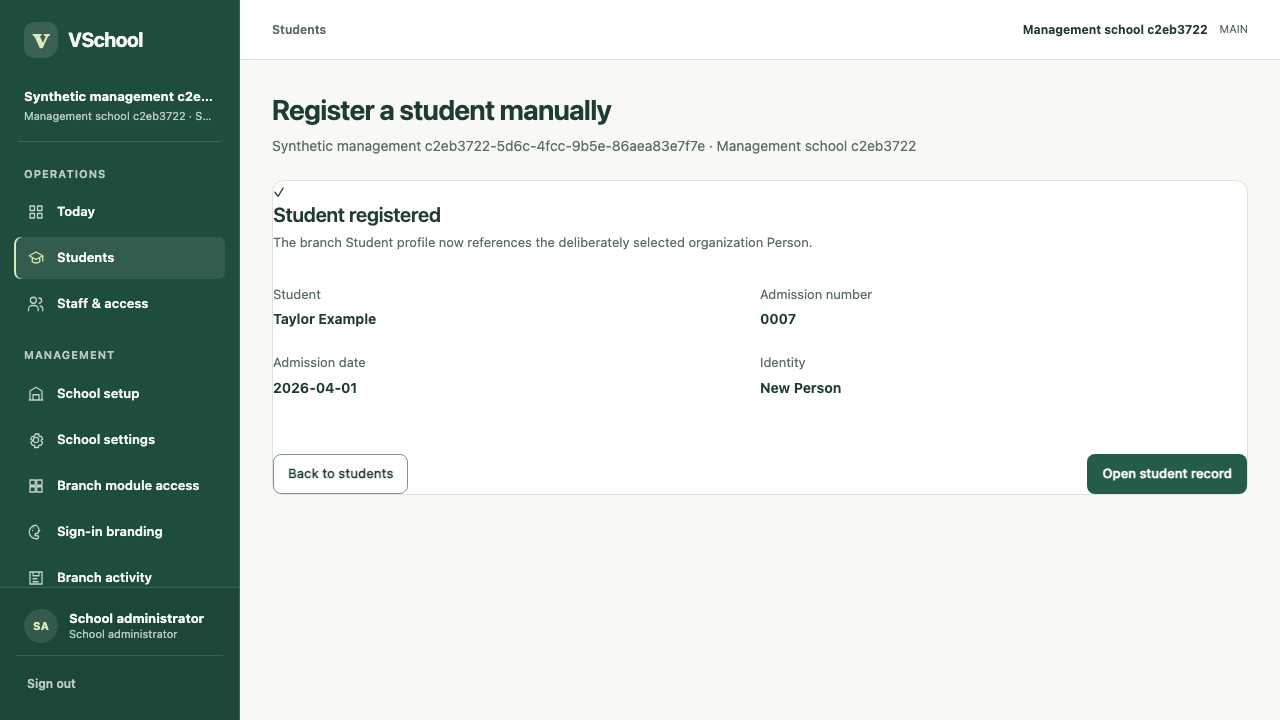
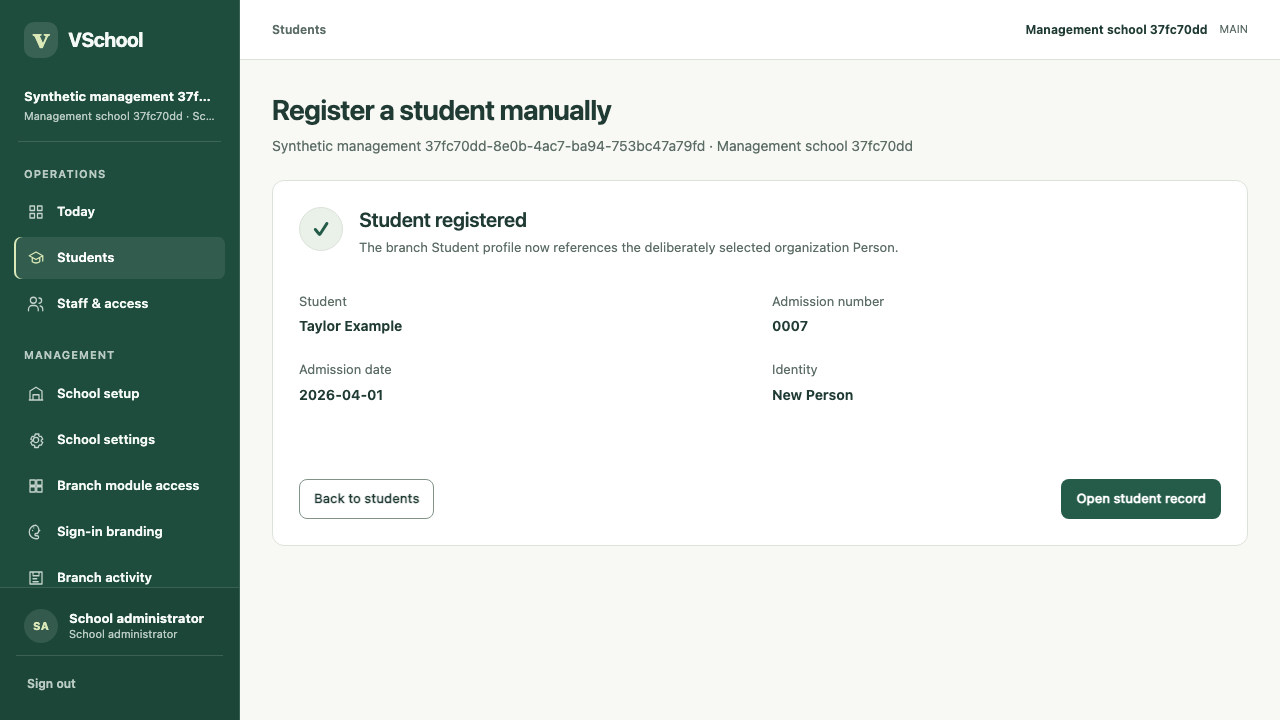
Complete administrator student enrollment composition

diff --git a/components/student-enrollment-form.tsx b/components/student-enrollment-form.tsx
@@ -2,9 +2,12 @@
 
 import {useEffect,useRef,useState} from "react";
 import {useRouter} from "next/navigation";
-import type {EnrollmentOptions} from "@/shared/contracts/students";
+import type {EnrollmentOptions,EnrollmentResult} from "@/shared/contracts/students";
 import {Checkbox,SelectField,TextField} from "@/components/ui/forms";
-import {Alert,Button,Card,SectionHeader} from "@/components/ui/primitives";
+import {Alert,Button,ButtonLink,Card,SectionHeader} from "@/components/ui/primitives";
+
+type EnrollmentAttempt=Readonly<{studentId:string;yearId:string;sectionId:string;startsOn:string;lastDay:string;rollNumber:string;key:string}>;
+type ApiFailure=Error&{code?:string;status?:number;retryable?:boolean};
 
 function priorDay(value:string){
   const [year,month,day]=value.split("-").map(Number),date=new Date(Date.UTC(year,month-1,day-1));
@@ -17,7 +20,7 @@ function defaultStart(year:EnrollmentOptions["years"][number]|undefined,today:st
 
 export function StudentEnrollmentForm({studentId,studentName,admissionNumber,cancelHref,options}:{studentId:string;studentName:string;admissionNumber:string;cancelHref:string;options:EnrollmentOptions}){
   const router=useRouter(),years=options.years.filter(item=>!options.enrolledYearIds.includes(item.yearId));
-  const [step,setStep]=useState<1|2|3|4>(1),[yearId,setYearId]=useState(years[0]?.yearId??""),[sectionId,setSectionId]=useState(""),[startsOn,setStartsOn]=useState(()=>defaultStart(years[0],options.today)),[lastDay,setLastDay]=useState(()=>years[0]?priorDay(years[0].endsOn):""),[rollNumber,setRollNumber]=useState(""),[reviewed,setReviewed]=useState(false),[busy,setBusy]=useState(false),[error,setError]=useState(""),[success,setSuccess]=useState(false);
+  const [step,setStep]=useState<1|2|3|4>(1),[yearId,setYearId]=useState(years[0]?.yearId??""),[sectionId,setSectionId]=useState(""),[startsOn,setStartsOn]=useState(()=>defaultStart(years[0],options.today)),[lastDay,setLastDay]=useState(()=>years[0]?priorDay(years[0].endsOn):""),[rollNumber,setRollNumber]=useState(""),[reviewed,setReviewed]=useState(false),[busy,setBusy]=useState(false),[error,setError]=useState(""),[errorCode,setErrorCode]=useState(""),[attempt,setAttempt]=useState<EnrollmentAttempt|null>(null),[saved,setSaved]=useState<EnrollmentResult|null>(null);
   const stepPanel=useRef<HTMLDivElement>(null),didMount=useRef(false),year=years.find(item=>item.yearId===yearId)??years[0],sections=year?.sections??[];
 
   useEffect(()=>{
@@ -36,16 +39,19 @@ export function StudentEnrollmentForm({studentId,studentName,admissionNumber,can
 
   async function submit(){
     if(!year||!sectionId||!startsOn||!lastDay||!reviewed)return;
-    setBusy(true);setError("");setSuccess(false);
+    const payload=attempt??{studentId,yearId:year.yearId,sectionId,startsOn,lastDay,rollNumber,key:crypto.randomUUID()};
+    setBusy(true);setError("");setErrorCode("");
     try{
-      const key=crypto.randomUUID(),response=await fetch("/api/v1/enrollments",{method:"POST",headers:{"Content-Type":"application/json","Idempotency-Key":key},body:JSON.stringify({studentId,yearId:year.yearId,sectionId,startsOn,lastDay,rollNumber,key})}),result=await response.json();
-      if(!response.ok)throw new Error(typeof result.message==="string"?result.message:"Enrollment could not be completed.");
-      setSuccess(true);router.refresh();
-    }catch(cause){setError(cause instanceof Error?cause.message:"Enrollment could not be completed. Retry with a new request.");}
+      const response=await fetch("/api/v1/enrollments",{method:"POST",headers:{"Content-Type":"application/json","Idempotency-Key":payload.key},body:JSON.stringify(payload)}),result=await response.json();
+      if(!response.ok){const failure=Object.assign(new Error(typeof result.message==="string"?result.message:"Enrollment could not be completed."),{code:result.code,status:response.status,retryable:result.retryable}) as ApiFailure;throw failure;}
+      setAttempt(null);setSaved(result as EnrollmentResult);router.refresh();
+    }catch(cause){const failure=cause as ApiFailure,unknown=!(cause instanceof Error)||failure.status===undefined||failure.status>=500||failure.retryable===true;if(unknown){setAttempt(payload);setError("The outcome is unknown. Retry the exact retained enrollment before starting another request.");}else{setAttempt(null);setErrorCode(failure.code??"");setError(failure.message);}}
     finally{setBusy(false);}
   }
 
-  if(!years.length)return <Card className="padded settings-panel"><SectionHeader title="Enroll in an academic year" description="There is no open year with an active section available, or this student is already enrolled in every open year."/></Card>;
+  if(saved)return <Card className="receipt student-registration-receipt"><div className="success-mark" aria-hidden="true">✓</div><SectionHeader title="Enrollment saved" description="The enrollment and effective placement were committed together."/><dl className="branch-review"><div><dt>Student</dt><dd>{studentName}</dd></div><div><dt>Academic year</dt><dd>{saved.yearCode} · {saved.yearName}</dd></div><div><dt>Class</dt><dd>{saved.placement.gradeName} · {saved.placement.sectionName}</dd></div><div><dt>Included dates</dt><dd>{saved.validFrom} to {priorDay(saved.validTo)}</dd></div></dl><div className="workflow-actions"><ButtonLink href={cancelHref} variant="secondary">Back to students</ButtonLink><ButtonLink href={`/admin/students/${studentId}#enrollment-history`}>Review enrollment history</ButtonLink></div></Card>;
+
+  if(!years.length)return <Card className="padded settings-panel"><SectionHeader title="Enroll in an academic year" description="There is no open year with an active section available, or this student is already enrolled in every open year."/><ButtonLink href={`/admin/students/${studentId}#enrollment-history`} variant="secondary">Review enrollment history</ButtonLink></Card>;
 
   return <section className="student-enrollment-workflow">
     <ol className="workflow-stepper student-enrollment-stepper" aria-label="Student enrollment progress">
@@ -56,8 +62,7 @@ export function StudentEnrollmentForm({studentId,studentName,admissionNumber,can
     </ol>
     <div className="branch-edit-grid student-enrollment-grid">
       <Card className="branch-edit-card student-enrollment-card">
-        {error&&<div role="alert" aria-label="Enrollment feedback"><Alert tone="danger" title="Enrollment not saved">{error}</Alert></div>}
-        {success&&<div role="status" aria-label="Enrollment feedback"><Alert tone="success" title="Enrollment saved">The student is enrolled in {year?.name}. History has been refreshed.</Alert></div>}
+        {error&&<div role="alert" aria-label="Enrollment feedback"><Alert tone="danger" title={attempt?"Enrollment outcome unknown":"Enrollment not saved"}>{error} <ButtonLink href={errorCode==="ROSTER_IN_USE"?"/admin/attendance/sessions?view=monitor":`/admin/students/${studentId}#enrollment-history`} variant="secondary">{errorCode==="ROSTER_IN_USE"?"Review attendance sessions":"Review enrollment history"}</ButtonLink></Alert></div>}
         <div ref={stepPanel}>
           {step===1&&<>
             <SectionHeader title="Enrollment" description="Choose the student and one open academic year."/>
@@ -88,7 +93,7 @@ export function StudentEnrollmentForm({studentId,studentName,admissionNumber,can
             <SectionHeader title="Review and confirm" description="Check the intended outcome before saving the enrollment and placement."/>
             <dl className="branch-review"><div><dt>Student</dt><dd>{studentName}</dd></div><div><dt>Academic year</dt><dd>{year?.code} · {year?.name}</dd></div><div><dt>Class</dt><dd>{sections.find(item=>item.sectionId===sectionId)?.gradeName} · {sections.find(item=>item.sectionId===sectionId)?.name}</dd></div><div><dt>Included dates</dt><dd>{startsOn} to {lastDay}</dd></div></dl>
             <h3>Expected outcome</h3><p className="muted small">The enrollment and effective placement are saved together.</p>
-            <div className="workflow-actions"><Button variant="secondary" disabled={busy} onClick={()=>setStep(3)}>← Back</Button><Button disabled={!reviewed} loading={busy} onClick={()=>void submit()}>Confirm enrollment</Button></div>
+            <div className="workflow-actions"><Button variant="secondary" disabled={busy||attempt!==null} onClick={()=>setStep(3)}>← Back</Button><Button disabled={!reviewed} loading={busy} onClick={()=>void submit()}>{attempt?"Retry same enrollment":"Confirm enrollment"}</Button></div>
           </>}
         </div>
       </Card>

diff --git a/test/e2e/students-enrollment.spec.ts b/test/e2e/students-enrollment.spec.ts
@@ -23,9 +23,9 @@ test.afterAll(async()=>{await students.disconnect();await academics.disconnect()
 async function signIn(page:Page){await page.goto('/sign-in');await page.getByRole('textbox',{name:'Email address',exact:true}).fill(input.adminEmail);await page.getByLabel(/^Password/).fill(input.password);await page.getByRole('button',{name:'Sign in',exact:true}).click();await expect(page).toHaveURL(/\/admin$/,{timeout:15000});}
 
 test('enrolls once into an open year, refreshes history and class roster count, and rejects duplicate/year mismatch',async({page})=>{
-  await signIn(page);await page.goto(`/admin/students/${studentId}/enrollment`);await expect(page.getByRole('heading',{name:'Enroll and place a student'})).toBeVisible();await expect(page.getByRole('heading',{name:'Enrollment',exact:true})).toBeVisible();await page.screenshot({path:`docs/evidence/admin-student-placement-2026-10-11/application-sa-19-entry-${test.info().project.name}.png`,fullPage:true});
+  await signIn(page);await page.goto('/admin/students');await page.getByRole('link',{name:'Enroll student'}).click();await expect(page).toHaveURL(/\/admin\/students\/enroll/);await page.getByLabel('Student',{exact:true}).selectOption(studentId);await page.getByRole('button',{name:/Continue/}).click();await expect(page).toHaveURL(new RegExp(`/admin/students/${studentId}/enrollment`));await expect(page.getByRole('heading',{name:'Enroll and place a student'})).toBeVisible();await expect(page.getByRole('heading',{name:'Enrollment',exact:true})).toBeVisible();await expect(page.getByLabel('Student',{exact:true})).toBeDisabled();await page.screenshot({path:`docs/evidence/admin-student-placement-2026-10-11/application-sa-19-entry-${test.info().project.name}.png`,fullPage:true});
   const yearSelect=page.getByLabel('Academic year',{exact:true}),yearName=await yearSelect.locator(`option[value="${yearId}"]`).textContent();expect(yearName).toContain(yearCode);await yearSelect.selectOption(yearId);await page.getByRole('button',{name:/Continue/}).click();await expect(page.getByRole('heading',{name:'Class placement'})).toBeFocused();await page.getByLabel('Class').selectOption(sectionId);await page.getByLabel('Effective from').fill('2026-10-04');await page.getByLabel('Effective until').fill('2026-10-31');await page.getByLabel('Roll number').fill('0007');await page.getByRole('button',{name:/Continue/}).click();await expect(page.getByRole('heading',{name:'Review placement'})).toBeFocused();await page.getByLabel('I have reviewed roster impact.').check();await page.getByRole('button',{name:/Continue/}).click();await expect(page.getByRole('heading',{name:'Review and confirm'})).toBeFocused();await page.screenshot({path:`docs/evidence/admin-student-placement-2026-10-11/application-sa-19-review-${test.info().project.name}.png`,fullPage:true});await page.getByRole('button',{name:'Confirm enrollment'}).click();
-  await expect(page.getByRole('status',{name:'Enrollment feedback'})).toContainText('Enrollment saved');await page.goto(`/admin/students/${studentId}`);await expect(page.getByRole('row',{name:new RegExp(`${yearCode}.*Grade 8.*Section A.*2026-10-04 to 2026-10-31.*0007.*1 students`)})).toBeVisible();await page.reload();await expect(page.getByRole('row',{name:new RegExp(`${yearCode}.*Grade 8.*Section A.*2026-10-04 to 2026-10-31.*0007.*1 students`)})).toBeVisible();
+  await expect(page.getByRole('heading',{name:'Enrollment saved'})).toBeVisible();await expect(page.getByRole('link',{name:'Review enrollment history'})).toBeVisible();await page.screenshot({path:`docs/evidence/admin-student-placement-2026-10-11/application-sa-19-receipt-${test.info().project.name}.png`,fullPage:true});await page.getByRole('link',{name:'Review enrollment history'}).click();await expect(page.getByRole('row',{name:new RegExp(`${yearCode}.*Grade 8.*Section A.*2026-10-04 to 2026-10-31.*0007.*1 students`)})).toBeVisible();await page.reload();await expect(page.getByRole('row',{name:new RegExp(`${yearCode}.*Grade 8.*Section A.*2026-10-04 to 2026-10-31.*0007.*1 students`)})).toBeVisible();
   await page.setViewportSize(test.info().project.name==='mobile'?{width:390,height:844}:{width:1440,height:1000});await page.evaluate(()=>scrollTo(0,0));
   await page.goto(`/admin/students?search=${studentAdmission}&by=admissionNumber`);await expect(page.getByRole('row',{name:new RegExp(`${studentAdmission}.*Grade 8`)})).toBeVisible();
   const duplicateKey=randomUUID(),duplicate=await page.request.post('/api/v1/enrollments',{headers:{origin:'http://127.0.0.1:3401','Idempotency-Key':duplicateKey},data:{studentId,yearId,sectionId,startsOn:'2026-10-04',lastDay:'2026-10-31',rollNumber:'0007',key:duplicateKey}});expect(duplicate.status()).toBe(409);expect((await duplicate.json()).code).toBe('CONFLICT');

diff --git a/components/students-workspace.tsx b/components/students-workspace.tsx
@@ -4,7 +4,7 @@ import {useRouter,useSearchParams} from 'next/navigation';
 import Link from 'next/link';
 import type {ExistingPersonChoice,StudentWorkspace} from '@/shared/contracts/students';
 import {SelectField,TextField} from '@/components/ui/forms';
-import {Alert,Avatar,Badge,Button,EmptyState,PageHeader,PageStack} from '@/components/ui/primitives';
+import {Alert,Avatar,Badge,Button,ButtonLink,EmptyState,PageHeader,PageStack} from '@/components/ui/primitives';
 import {Dialog} from '@/components/ui/interactive';
 import {ServerTable} from '@/components/ui/server-table';
 import {ListToolbar} from '@/components/portal/list-toolbar';
@@ -32,7 +32,7 @@ export function StudentsWorkspace({initial,initialSearch,initialBy,initialStatus
  function applySort(selection:SortSelection){const sort:StudentSort=selection.by==='admissionNumber'||selection.by==='status'?selection.by:'name',order:StudentOrder=selection.order==='descending'?'desc':'asc';navigateList({sort,order});}
  const sortLabel=initialSort==='admissionNumber'?'Reference':initialSort==='status'?'Status':'Name';
  return <PageStack className="students-page">
-  <PageHeader title="Students" description="Find a student, review enrollment and keep dated records clear." actions={<Button onClick={()=>router.push(`/admin/students/register?returnTo=${encodeURIComponent(returnTo)}`)}><ActionIcon name="add"/>Register student</Button>}/>
+  <PageHeader title="Students" description="Find a student, review enrollment and keep dated records clear." actions={<div className="button-row"><ButtonLink href={`/admin/students/enroll?returnTo=${encodeURIComponent(returnTo)}`} variant="secondary">Enroll student</ButtonLink><Button onClick={()=>router.push(`/admin/students/register?returnTo=${encodeURIComponent(returnTo)}`)}><ActionIcon name="add"/>Register student</Button></div>}/>
   {message&&!registrationOpen&&<div role={failed?'alert':'status'} aria-live="polite" aria-label="Student feedback"><Alert tone={failed?'danger':'info'} title={failed?'Request not completed':'Student lookup'}>{message}</Alert></div>}
   <div className="students-directory-tabs" role="navigation" aria-label="Student directory views"><span aria-current="page">All students <Badge>{data.items.length}</Badge></span></div>
   <section className="students-directory" aria-label="Students in this branch">

diff --git a/app/admin/students/enroll/page.tsx b/app/admin/students/enroll/page.tsx
@@ -1,0 +1,17 @@
+import {redirect} from "next/navigation";
+import {AccessError} from "@/backend/modules/access/contracts";
+import {StudentEnrollmentPicker} from "@/components/student-enrollment-picker";
+import {Alert,BrandSurface,PageHeader,PageStack} from "@/components/ui/primitives";
+import {accountGateway} from "@/lib/server/access";
+import {getIdentity} from "@/lib/server/auth";
+import {studentsGateway} from "@/lib/server/students";
+
+export const dynamic="force-dynamic";
+function safeReturn(value:string|undefined){if(!value)return "/admin/students";try{const url=new URL(value,"http://vschool.local");return url.pathname==="/admin/students"?`${url.pathname}${url.search}`:"/admin/students";}catch{return "/admin/students";}}
+export default async function ChooseStudentEnrollmentPage({searchParams}:{searchParams:Promise<{returnTo?:string|string[]}>}){
+  const query=await searchParams,returnTo=safeReturn(Array.isArray(query.returnTo)?undefined:query.returnTo),identity=await getIdentity();let data:Awaited<ReturnType<typeof load>>|null=null,error:unknown;
+  async function load(){const [home,students]=await Promise.all([accountGateway.getHome(identity),studentsGateway.list(identity,{status:"ACTIVE",sort:"name",order:"asc",limit:100})]);return {home,students};}
+  try{data=await load();}catch(cause){error=cause;if(cause instanceof AccessError&&cause.code==="UNAUTHENTICATED")redirect("/sign-in");}
+  if(!data)return <BrandSurface><main id="main-content" className="container page-space branch-edit-shell"><PageHeader title="Enroll and place a student"/><Alert tone="danger" title={error instanceof AccessError&&error.code==="FORBIDDEN"?"Enrollment access denied":"Enrollment unavailable"}>Current branch, module and student-management permission are checked on the server.</Alert></main></BrandSurface>;
+  return <BrandSurface><main id="main-content" className="container page-space branch-edit-shell"><PageStack className="branch-edit-page"><PageHeader title="Enroll and place a student" description={`${data.home.institutionName} · ${data.home.schoolName}`}/><StudentEnrollmentPicker students={data.students.items} hasMore={data.students.nextCursor!==null} returnTo={returnTo}/></PageStack></main></BrandSurface>;
+}

diff --git a/components/student-enrollment-picker.tsx b/components/student-enrollment-picker.tsx
@@ -1,0 +1,12 @@
+"use client";
+
+import {useState} from "react";
+import {useRouter} from "next/navigation";
+import type {StudentWorkspace} from "@/shared/contracts/students";
+import {SelectField} from "@/components/ui/forms";
+import {Alert,Button,Card,SectionHeader} from "@/components/ui/primitives";
+
+export function StudentEnrollmentPicker({students,hasMore,returnTo}:{students:StudentWorkspace["items"];hasMore:boolean;returnTo:string}){
+  const router=useRouter(),[studentId,setStudentId]=useState("");
+  return <div className="branch-edit-grid student-enrollment-grid"><Card className="branch-edit-card student-enrollment-card"><SectionHeader title="Enrollment" description="Choose an active student before selecting an open academic year."/>{hasMore&&<Alert tone="info" title="Showing the first 100 active students">Use the Students directory to find another student, then choose Enroll / place student from Manage.</Alert>}<SelectField label="Student" required value={studentId} onChange={event=>setStudentId(event.target.value)}><option value="">Choose a student</option>{students.map(student=><option key={student.studentId} value={student.studentId}>{student.displayName} · {student.admissionNumber}</option>)}</SelectField><div className="workflow-actions"><Button variant="secondary" onClick={()=>router.push(returnTo)}>Cancel</Button><Button disabled={!studentId} onClick={()=>router.push(`/admin/students/${studentId}/enrollment?returnTo=${encodeURIComponent(returnTo)}`)}>Continue <span aria-hidden="true">→</span></Button></div></Card><aside className="branch-edit-aside"><Card className="padded"><h2>What this changes</h2><p>The selected Student remains fixed while the enrollment and dated class placement are reviewed.</p><div className="section-divider"/><h3>Before you continue</h3><p>Only active Students returned by the authorized current-branch directory are available.</p></Card></aside></div>;
+}

diff --git a/app/globals.css b/app/globals.css
@@ -685,5 +685,7 @@ body{font-family:var(--font-ui)}
 .branch-edit-page .branch-edit-aside h2{margin:0 0 8px;font-size:18px;font-weight:650;line-height:1.35;letter-spacing:0}
 .branch-edit-page .branch-edit-aside h3{margin:0 0 8px;font-size:14px;font-weight:650;line-height:21px}
 .branch-edit-page .branch-edit-aside p{margin:0;color:var(--muted);font-size:12px;line-height:18px}
+.branch-edit-page .student-registration-receipt{display:grid;grid-template-columns:44px minmax(0,1fr);gap:0 16px;padding:26px;max-width:100%}.student-registration-receipt .success-mark{align-items:center;background:var(--brand-soft);border:1px solid var(--line);border-radius:999px;color:var(--primary);display:flex;font-size:20px;font-weight:700;height:44px;justify-content:center;width:44px}.student-registration-receipt .section-header{align-self:center;margin:0}.student-registration-receipt .branch-review,.student-registration-receipt .workflow-actions{grid-column:1/-1}.student-registration-receipt .branch-review{gap:0 24px;margin-top:22px}.student-registration-receipt .workflow-actions{margin-top:18px}
 @media(max-width:900px){.branch-edit-page .branch-edit-grid{grid-template-columns:minmax(0,1fr)}}
 @media(max-width:800px){.branch-edit-page .btn{min-height:44px;padding-block:10px}.branch-edit-page .workflow-draft-action{min-height:44px}.branch-edit-page .branch-edit-card{padding:20px}}
+@media(max-width:620px){.branch-edit-page .student-registration-receipt{grid-template-columns:38px minmax(0,1fr);gap:0 12px;padding:20px}.student-registration-receipt .success-mark{font-size:18px;height:38px;width:38px}.student-registration-receipt .branch-review{grid-template-columns:1fr}.student-registration-receipt .workflow-actions{align-items:stretch;flex-direction:column}.student-registration-receipt .workflow-actions .btn{width:100%}}

diff --git a/docs/evidence/admin-student-placement-2026-10-11/README.md b/docs/evidence/admin-student-placement-2026-10-11/README.md
@@ -6,20 +6,23 @@ Engineering comparison captured 11 October 2026. Human visual acceptance remains
 
 - Approved reference: `docs/execution/VSchool_Execution_Pack/references/approved/packs/VSchool_School_Admin_Design/VSchool_School_Admin_Review.html#/flow/SA-19`.
 - Embedded contract: `docs/execution/VSchool_Execution_Pack/references/approved/implementation-spec/administrator/workflows/SA-19.md` and `screens/SA-19-entry.md`.
-- Production route: `/admin/students/[id]/enrollment`, reached from the Students Manage dialog and Student record.
+- Production routes: `/admin/students/enroll` for scoped standalone selection and `/admin/students/[id]/enrollment` for the fixed-Student workflow reached from the directory or Student record.
 
 ## Implemented comparison
 
 - Moved enrollment from the lower portion of the multi-purpose Student record to a dedicated authorized page matching the reference composition.
 - Added Enrollment, Class placement, Review placement and Confirm states with the approved labels, action hierarchy, guidance cards and responsive layout.
-- Uses the currently authorized Student selected in the directory/record entry path, real open Academic years/classes, inclusive effective dates and optional text roll number.
+- Supports both approved entry modes without broadening identity lookup: the standalone selector lists up to 100 active Students from the current authorized branch in deterministic name order, while directory/record entry fixes the already authorized Student. Larger branches continue through the paginated directory and its Manage action.
+- Uses real open Academic years/classes, inclusive effective dates and optional text roll number.
 - Step changes focus the new heading. Cancel returns to the validated internal Students URL. Draft remains visibly disabled because no accepted persistence/resume contract exists.
 - The review acknowledgement gates the final confirmation. The existing Students command remains the only write path; authorization, branch/module checks, scoped transaction, replay, overlap/frozen-roster rules and inclusive-to-exclusive date conversion are unchanged.
+- Success renders a persisted enrollment receipt with links to the directory and dated history. Deterministic conflicts link to the Student history or attendance-session monitor. An unavailable/unknown response retains the exact payload and idempotency key for safe replay before another request can start.
 
 ## Verification
 
 - Focused ESLint and TypeScript checks passed.
-- `pnpm test:e2e test/e2e/students-enrollment.spec.ts` passed 2/2 desktop/mobile against guarded real PostgreSQL `vyapti_vschool_test`; 38 migrations were current. It proves persistence/history, exact directory search, duplicate rejection and wrong-year section rejection.
+- `pnpm test:e2e test/e2e/students-enrollment.spec.ts` passed 2/2 desktop/mobile against guarded real PostgreSQL `vyapti_vschool_test`; 38 migrations were current. It proves scoped standalone selection, fixed contextual entry, persistence/history, exact directory search, duplicate rejection and wrong-year section rejection.
+- The final shared-receipt visual checkpoint passed 4/4 desktop/mobile across SA-18 and SA-19 after the receipt composition changed.
 - The focused Playwright run performed a production build and captured entry/final review states at 1440 × 1000 and 390 × 844. The screenshots were visually inspected for hierarchy, spacing, wrapping and overflow.
 - No schema, migration, seed, backend contract or development-database row changed.
 
@@ -28,9 +31,9 @@ Engineering comparison captured 11 October 2026. Human visual acceptance remains
 - `reference-sa-19-entry-desktop.png`, `reference-sa-19-entry-mobile.png`
 - `application-sa-19-entry-chromium.png`, `application-sa-19-entry-mobile.png`
 - `application-sa-19-review-chromium.png`, `application-sa-19-review-mobile.png`
+- `application-sa-19-receipt-chromium.png`, `application-sa-19-receipt-mobile.png`
 
 ## Remaining deviations
 
-- The approved fictional review can choose any prototype Student in step 1. Production enters from an already authorized real Student and renders that choice disabled, avoiding a second identity-search contract inside the mutation workflow.
 - Production uses the enabled route set and real account/school data, so prototype-only navigation, review banner and fictional identities are absent.
-- A conflict is reported without a partial write, but the generic reference’s dedicated recovery link/receipt composition is not yet implemented. Existing retry/history recovery remains available. Human comparison and acceptance are pending.
+- The standalone selector is intentionally capped at the server-supported first 100 active Students; branches beyond that use the existing paginated/searchable directory before entering the same workflow. Draft persistence/resume remains unimplemented because its lifecycle contract is unresolved. Human comparison and acceptance are pending.

diff --git a/docs/modules/students/CURRENT_STATE.md b/docs/modules/students/CURRENT_STATE.md
@@ -11,7 +11,7 @@ Last updated: 2026-10-11. This is an independent project checkpoint; no completi
 
 **SA-18 dedicated registration comparison (11 October 2026):** engineering implementation and direct desktop/mobile comparison are complete; human review remains PENDING. The Students directory now opens a dedicated authorized four-step registration route matching the approved Identity, School record, Review identity and Confirm composition. It preserves the accepted branch admission date, exact Person-ID/admission-number selection, atomic Person/Student command, rollback, replay and scope contracts. Success renders a real receipt; duplicate/racing admission numbers offer the existing Student only after an exact current-scope lookup and leave no orphan Person. Focused lint/type checks passed. The final changed real-PostgreSQL Playwright cases passed 2/2 desktop/mobile; the preceding full-file run also passed all four unchanged security/selection cases before its stale combined-search expectation was corrected to use the documented Admission number attribute. No backend, schema, migration, seed or development row changed. Draft persistence remains an unresolved product contract. [Comparison evidence](../../evidence/admin-student-registration-2026-10-11/README.md).
 
-**SA-19 direct enrollment and placement comparison (11 October 2026):** engineering implementation and direct desktop/mobile comparison are complete; human review remains PENDING. Enrollment now has a dedicated authorized route with the approved Enrollment, Class placement, Review placement and Confirm states. It consumes the real Student selected from the directory/record, real authorized year/class options and the existing atomic Students enrollment command. Keyboard focus follows step changes, Cancel preserves the validated Students return URL and the unimplemented draft action remains disabled. Focused lint/type checks passed; real-PostgreSQL Playwright and its production build passed 2/2 desktop/mobile, including persistence/history, exact directory lookup, duplicate rejection and wrong-year rejection. No backend, schema, migration, seed or development row changed. The generic reference recovery link/receipt composition remains a documented UI gap. [Comparison evidence](../../evidence/admin-student-placement-2026-10-11/README.md).
+**SA-19 direct enrollment and placement comparison (11 October 2026):** engineering implementation and direct desktop/mobile comparison are complete; human review remains PENDING. Enrollment has a dedicated authorized route with the approved Enrollment, Class placement, Review placement and Confirm states. A standalone entry selects from up to 100 deterministically ordered active Students returned by the scoped server query; larger branches use the existing searchable/paginated directory Manage action. Contextual directory/record entry keeps its authorized Student fixed. The workflow consumes real year/class options and the existing atomic Students command. Success now renders a persisted receipt; deterministic conflicts link to dated history or attendance monitoring, while unknown outcomes retain the exact payload/key for replay. Keyboard focus follows steps, Cancel preserves the validated Students return URL and the unimplemented draft action remains disabled. Focused lint/type checks passed; real-PostgreSQL Playwright and its production build passed 2/2 desktop/mobile, including selection, persistence/history, duplicate rejection and wrong-year rejection. The final shared-receipt checkpoint passed 4/4 SA-18/SA-19 desktop/mobile. No backend, schema, migration, seed or development row changed. [Comparison evidence](../../evidence/admin-student-placement-2026-10-11/README.md).
 
 **SA-20 direct Student management comparison (11 October 2026):** engineering implementation and direct desktop/mobile comparison are complete; human review remains PENDING. The existing People-owned correction now uses the approved three-step entry/review/confirm composition, retains separate first/last fields from the accepted owner contract, and preserves server authorization, expected Person version, reasoned evidence and stale comparison. Directory-to-detail links carry a validated internal return target so Back restores search/filter/sort URL state. Admission date, enrollment history, placement transfer and archive remain available beneath the correction workflow. Focused lint/type/build checks, no-write visual navigation and 2/2 real name-correction/stale Playwright cases passed. No backend contract, migration, schema, seed or database row changed. [Comparison evidence](../../evidence/admin-student-management-2026-10-11/README.md).
 

diff --git a/docs/execution/SCHOOL_ADMIN_WORKFLOW_MATRIX.md b/docs/execution/SCHOOL_ADMIN_WORKFLOW_MATRIX.md
@@ -24,7 +24,7 @@ Statuses separate functional implementation, reference comparison and human acce
 | SA-16 | Verify a staff identity and teacher eligibility | `VSchool_School_Admin_Review.html#/flow/SA-16` | staff | EX-05 | VERIFIED | PENDING_REFERENCE_COMPARISON | People PostgreSQL/browser tests; `docs/evidence/ex-06/README.md` | PENDING | Approved reference comparison and human review remain pending. |
 | SA-17 | Change or revoke staff access | `VSchool_School_Admin_Review.html#/flow/SA-17` | staff | EX-05 | VERIFIED | PENDING_REFERENCE_COMPARISON | Access PostgreSQL/browser tests; `docs/evidence/ex-06/README.md` | PENDING | Approved reference comparison and human review remain pending. |
 | SA-18 | Register a student manually | `VSchool_School_Admin_Review.html#/flow/SA-18` | students | EX-07 | VERIFIED | DIRECT_REFERENCE_COMPARISON_PENDING_HUMAN | [Dedicated registration comparison](../evidence/admin-student-registration-2026-10-11/README.md); exact identity/admission-date transaction and desktop/mobile PostgreSQL browser evidence | PENDING | Dedicated four-step route, scoped duplicate recovery and receipt are complete; draft persistence and human review remain pending. |
-| SA-19 | Enroll and place a student | `VSchool_School_Admin_Review.html#/flow/SA-19` | students | EX-07 | VERIFIED | DIRECT_REFERENCE_COMPARISON_PENDING_HUMAN | `docs/evidence/admin-student-placement-2026-10-11/README.md`; dedicated four-step route, enrollment dates, scope, replay, duplicate/year rejection and browser history | PENDING | Human review remains pending; recovery-link/receipt composition remains a recorded deviation. |
+| SA-19 | Enroll and place a student | `VSchool_School_Admin_Review.html#/flow/SA-19` | students | EX-07 | VERIFIED | DIRECT_REFERENCE_COMPARISON_PENDING_HUMAN | [Direct enrollment comparison](../evidence/admin-student-placement-2026-10-11/README.md); scoped standalone/fixed-Student entry, receipt/recovery, replay, duplicate/year rejection and desktop/mobile PostgreSQL browser evidence | PENDING | Supported reference behavior is complete; durable drafts and human review remain pending. |
 | SA-20 | Review or update a student record | `VSchool_School_Admin_Review.html#/flow/SA-20` | students | EX-08 | VERIFIED | DIRECT_REFERENCE_COMPARISON_PENDING_HUMAN | [Direct Student management comparison](../evidence/admin-student-management-2026-10-11/README.md); `docs/evidence/sa-comp-04/README.md`; unit, PostgreSQL migration/scope/replay/rollback/concurrency and desktop/mobile browser evidence | PENDING | Direct entry/review comparison is complete; draft persistence, body-font portability and human review remain pending. |
 | SA-21 | Move a student to another section | `VSchool_School_Admin_Review.html#/flow/SA-21` | students | EX-07 | VERIFIED | PARTIAL_REFERENCE_COMPARISON | `docs/evidence/ex-08/README.md`; effective-date transfer, frozen-session impact, stale/scope and preserved timeline | PENDING | Human review remains pending. |
 | SA-22 | Promote, transfer or leave school | `VSchool_School_Admin_Review.html#/flow/SA-22` | students | EX-07 | BLOCKED_PRODUCT_DECISION | PENDING_REFERENCE_COMPARISON | No implementation evidence yet | PENDING | Product decision: define LifecycleCase states, promotion/year transition, cross-branch destination acceptance, obligation-owner acknowledgements, withdrawal semantics and bulk partial-result recovery. |

diff --git a/docs/evidence/admin-student-registration-2026-10-11/README.md b/docs/evidence/admin-student-registration-2026-10-11/README.md
@@ -23,6 +23,7 @@ Engineering comparison captured 11 October 2026. Human visual acceptance remains
 - The final changed desktop/mobile registration journey passed 2/2 with Playwright against guarded real PostgreSQL `vyapti_vschool_test`. It proves create/persist/reload, explicit admission-number directory search, duplicate rollback and recovery, exact existing-Person registration and foreign-profile denial.
 - In the preceding full-file run, the four unchanged authorization and exact-selection cases passed; the two registration cases exposed a stale combined-search test assumption. The test now selects the documented Admission number attribute, and the final changed cases passed without weakening product assertions.
 - Reference and application entry states were captured at desktop and mobile sizes. Application receipt states were also captured and visually inspected.
+- After the shared receipt composition was refined for SA-19, the combined SA-18/SA-19 desktop/mobile visual checkpoint passed 4/4 and refreshed these receipt captures.
 - No backend contract, schema, migration, seed or development-database row changed.
 
 ## Evidence
